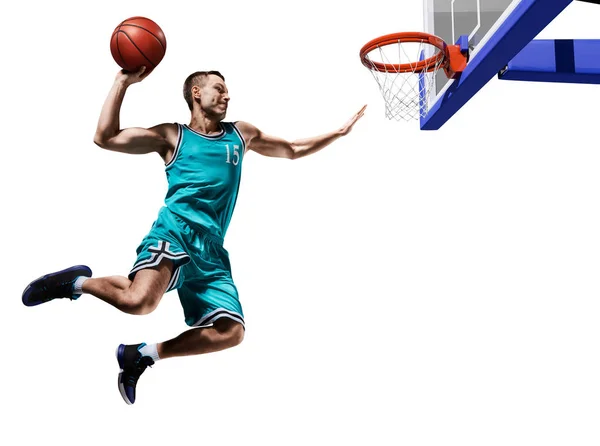
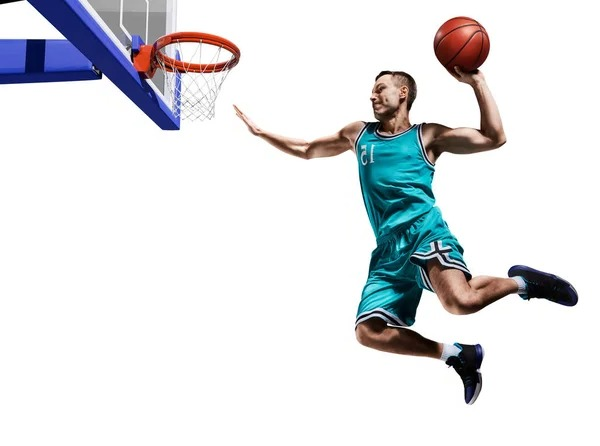
detaje homepage

diff --git a/Views/index.html b/Views/index.html
@@ -23,8 +23,52 @@
     <div class="top-container">
         <div class="slider">
             <img src="../Images/background-image-2.jpg">
+            <button class="img-btn right">
+                <svg fill="#000000" height="200px" width="200px" version="1.1" id="Layer_1" xmlns="http://www.w3.org/2000/svg" xmlns:xlink="http://www.w3.org/1999/xlink" viewBox="0 0 330 330" xml:space="preserve"><g id="SVGRepo_bgCarrier" stroke-width="0"></g><g id="SVGRepo_tracerCarrier" stroke-linecap="round" stroke-linejoin="round"></g><g id="SVGRepo_iconCarrier"> <path id="XMLID_222_" d="M250.606,154.389l-150-149.996c-5.857-5.858-15.355-5.858-21.213,0.001 c-5.857,5.858-5.857,15.355,0.001,21.213l139.393,139.39L79.393,304.394c-5.857,5.858-5.857,15.355,0.001,21.213 C82.322,328.536,86.161,330,90,330s7.678-1.464,10.607-4.394l149.999-150.004c2.814-2.813,4.394-6.628,4.394-10.606 C255,161.018,253.42,157.202,250.606,154.389z"></path> </g></svg>
+            </button>
+            <button class="img-btn left">
+                <svg fill="#000000" height="200px" width="200px" version="1.1" id="Layer_1" xmlns="http://www.w3.org/2000/svg" xmlns:xlink="http://www.w3.org/1999/xlink" viewBox="0 0 330 330" xml:space="preserve"><g id="SVGRepo_bgCarrier" stroke-width="0"></g><g id="SVGRepo_tracerCarrier" stroke-linecap="round" stroke-linejoin="round"></g><g id="SVGRepo_iconCarrier"> <path id="XMLID_222_" d="M250.606,154.389l-150-149.996c-5.857-5.858-15.355-5.858-21.213,0.001 c-5.857,5.858-5.857,15.355,0.001,21.213l139.393,139.39L79.393,304.394c-5.857,5.858-5.857,15.355,0.001,21.213 C82.322,328.536,86.161,330,90,330s7.678-1.464,10.607-4.394l149.999-150.004c2.814-2.813,4.394-6.628,4.394-10.606 C255,161.018,253.42,157.202,250.606,154.389z"></path> </g></svg>
+            </button>
         </div>
-        <div class="table"></div>
+        <div class="table">
+            <table class="tabela-home">
+                <tr>
+                    <th>#</th>
+                    <th>Ekipi</th>
+                    <th>Fitoret</th>
+                    <th>Humbjet</th>
+                    <th>Piket</th>
+                </tr>
+                <tr>
+                    <td>1</td>
+                    <td>Trepca</td>
+                    <td>9</td>
+                    <td>2</td>
+                    <td>20</td>
+                </tr>
+                <tr>
+                    <td>2</td>
+                    <td>Peja</td>
+                    <td>8</td>
+                    <td>3</td>
+                    <td>19</td>
+                </tr>
+                <tr>
+                    <td>3</td>
+                    <td>Golden Eagle Ylli</td>
+                    <td>7</td>
+                    <td>4</td>
+                    <td>18</td>
+                </tr>
+                <tr>
+                    <td>4</td>
+                    <td>Sigal Prishtina</td>
+                    <td>7</td>
+                    <td>4</td>
+                    <td>18</td>
+                </tr>
+            </table>
+        </div>
     </div>
     <h1>Lajmet e fundit</h1>
     <div class="main-container">

diff --git a/Styles/main.css b/Styles/main.css
@@ -2,6 +2,7 @@
     margin: 0px;
     padding: 0px;
 }
+
 body {
     font-family: sans-serif;
 }
@@ -10,7 +11,7 @@ body {
     background: no-repeat url("../Images/background-image.jpg");
     background-position: top;
     background-size: 65%;
-    background-position-x: right;
+    background-position-x: left;
 }
 
 .navbar {
@@ -23,6 +24,7 @@ body {
     background-color: transparent;
     max-width: 100vw;
     width: 100%;
+    z-index: 99;
 }
 
 .scrolled {
@@ -73,11 +75,40 @@ body {
     width: 100%;
 }
 
+.img-btn {
+    position: absolute;
+    top: 100%;
+    height: 35px;
+    width: 35px;
+    background-color: white;
+    border: 1px solid orangered;
+    border-radius: 10%;
+    display: flex;
+    justify-content: center;
+    align-items: center;
+}
+
+.right {
+    right: 42%;
+}
+
+.left {
+    left: 10%;
+    transform: scale(-1,1);
+
+}
+
+.img-btn svg {
+    width: 70%;
+    height: 70%;
+    fill: orangered;
+}
+
 .table {
-    width: 350px;
     margin: 0px 0px 0px 25px;
+    /* width: 350px;
     height: 390px;
-    background-color: brown;
+    background-color: brown; */
 }
 
 .main-container {
@@ -105,8 +136,9 @@ h1 {
     width: 100%;
     background-color: orangered;
     height: 500px;
-    
+
 }
+
 .hapsira {
     height: 700px;
 }
@@ -120,9 +152,28 @@ h1 {
     transform: translate(-50%, -50%);
     margin: auto;
 }
+
+.tabela-home {
+    border-collapse: collapse;
+}
+
+.tabela-home th {
+    background-color: orangered;
+    padding: 15px;
+    color: white;
+    border: 1px solid lightgray;
+}
+
+.tabela-home td {
+    padding: 15px;
+    border: 1px solid lightgray;
+
+}
+
 .tabela {
     border-collapse: collapse;
 }
+
 .tabela th {
     background-color: orangered;
     padding: 15px;
@@ -131,19 +182,22 @@ h1 {
     width: fit-content;
     text-wrap: nowrap;
 }
+
 .tabela td {
     padding: 15px;
     border: 1px solid lightgray;
     width: fit-content;
     text-wrap: nowrap;
-    
+
 }
+
 .team-container {
     margin-top: 5%;
     display: flex;
     justify-content: space-between;
     flex-wrap: wrap;
 }
+
 .ekipet {
     display: flex;
     flex-direction: column;
@@ -151,16 +205,19 @@ h1 {
     width: 20vw;
     text-wrap: nowrap;
 }
+
 .ekipi {
     display: flex;
     flex-direction: row;
     margin-bottom: 25px;
     align-items: center;
 }
+
 .ekipet img {
     width: 75px;
     height: 75px;
 }
+
 .ekipet-info {
     display: flex;
     flex-direction: column;
